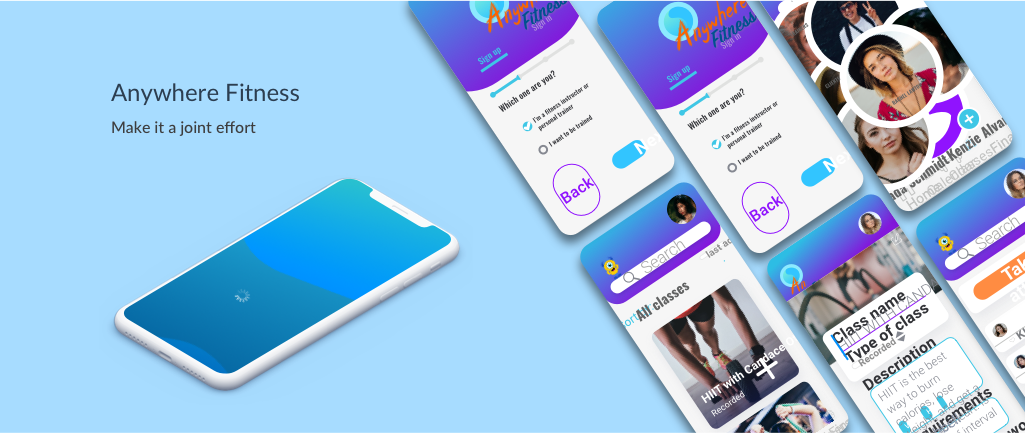
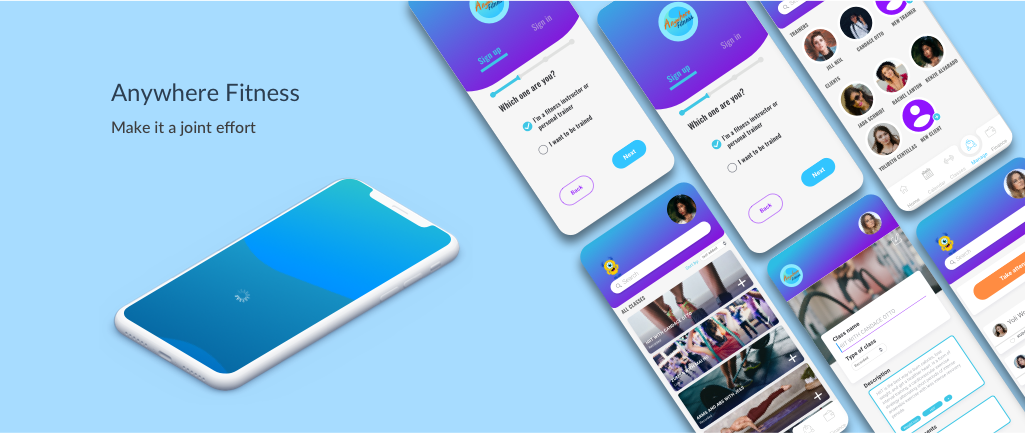
Added/replaced some images

diff --git a/src/components/caseStudies/FitnessStudy.js b/src/components/caseStudies/FitnessStudy.js
@@ -6,6 +6,10 @@ import FitStudy from '../../assets/fitStudy.png';
 import DesignCycle from '../../assets/designCycle.png';
 import RealCycle from '../../assets/realCycle.png';
 import Target from '../../assets/target.png';
+import Avatar from '../../assets/Avatar.svg';
+import FitHighFi from '../../assets/FitHighFi.png';
+import workshop from '../../assets/workshop.png';
+import Sketching from '../../assets/Sketching.png';
 
 const FitnessStudy = () => {
     return (
@@ -166,7 +170,40 @@ const FitnessStudy = () => {
             </div>
 
             <div className="workshop">
+            <img src={workshop} />
+            <h2> Workshop</h2>
+                    <h3> <i> Who doesn’t love good ideas? </i> </h3>
+                    
+                    <p>
+                    One of the things I like to do the most is generating ideas with a team, 
+                    for this workshop, I asked a couple of colleagues to help me with some exercises 
+                    because I wanted to know how they would tackle the problems in their own way. 
+                    I explained the purpose of this app, the challenge and lay down the problems 
+                    found in our target audience. I wrote down the problems on top of the board so 
+                    everyone could have a vision of the problems and started generating ideas, 
+                    after a couple of minutes we stop and did dot voting.
+
+  
+ 
+                    </p>
+                    <p>
+                    While creating all these ideas my colleagues kept asking questions that I didn’t 
+                    think of or didn’t question the “why” of some of the problems. <b>We went back to Discovery and Define </b> to review them again, 
+                        we compare them with the workshop ideas and modified the user flow.
+
+
+                    </p>
+                    <p><i><b>1. 	“Does that make sense?“ </b></i></p>
+	                <p><i><b>2. 	“Let me check on the data from the interviews”</b></i></p>
+	                <p><i><b>3. 	“Ok, one interviewer mentioned that but the other four don’t, that’s not a pattern let’s dig on the 
+                        market and do a quick analysis in which companies have features like that and check the reviews”</b></i></p>
+	                <p><i><b>4. 	“Okay, based on that market analysis, I’m adding that feature” (rewarding the trainees)</b></i></p>
                 
+            </div>
+            <div>
+            <img src={Sketching} />
+            <img src={FitHighFi} />
+            
             </div>
             
         </div>

diff --git a/src/css/navbar.css b/src/css/navbar.css
@@ -36,7 +36,7 @@
 
 .navLogo h2 {
     font-size: 36px;
-    font-family: "American Typewriter Regular";
+    font-family: "Lato";
     font-weight: 100;
 }
 
@@ -49,10 +49,12 @@
 .navLinks a {
     padding: 0 15px;
     font-size: 24px;
-    font-family: "American Typewriter Regular";
-    font-weight: 100;
+    font-family: "Lato";
+    font-weight: 400;
     text-decoration: none;
-    color: black;
+    color: #2C3E50;
+    text-decoration: none;
+   
 }
 
 .navLinks a:hover {

diff --git a/public/index.html b/public/index.html
@@ -3,6 +3,7 @@
   <head>
     <meta charset="utf-8" />
     <link rel="icon" href="%PUBLIC_URL%/favicon.ico" />
+    <link href="https://fonts.googleapis.com/css?family=Lato:300,400,400i,700,700i,900&display=swap&subset=latin-ext" rel="stylesheet">
     <meta name="viewport" content="width=device-width, initial-scale=1" />
     <meta name="theme-color" content="#000000" />
     <meta

diff --git a/src/index.css b/src/index.css
@@ -1,6 +1,6 @@
 body {
   margin: 0;
-  font-family: "American Typewriter Regular", "Roboto", "Ubuntu", sans-serif;
+  font-family: "Lato", "Helvetica", "Ubuntu", sans-serif;
   font-weight: 100;
   -webkit-font-smoothing: antialiased;
   -moz-osx-font-smoothing: grayscale;
